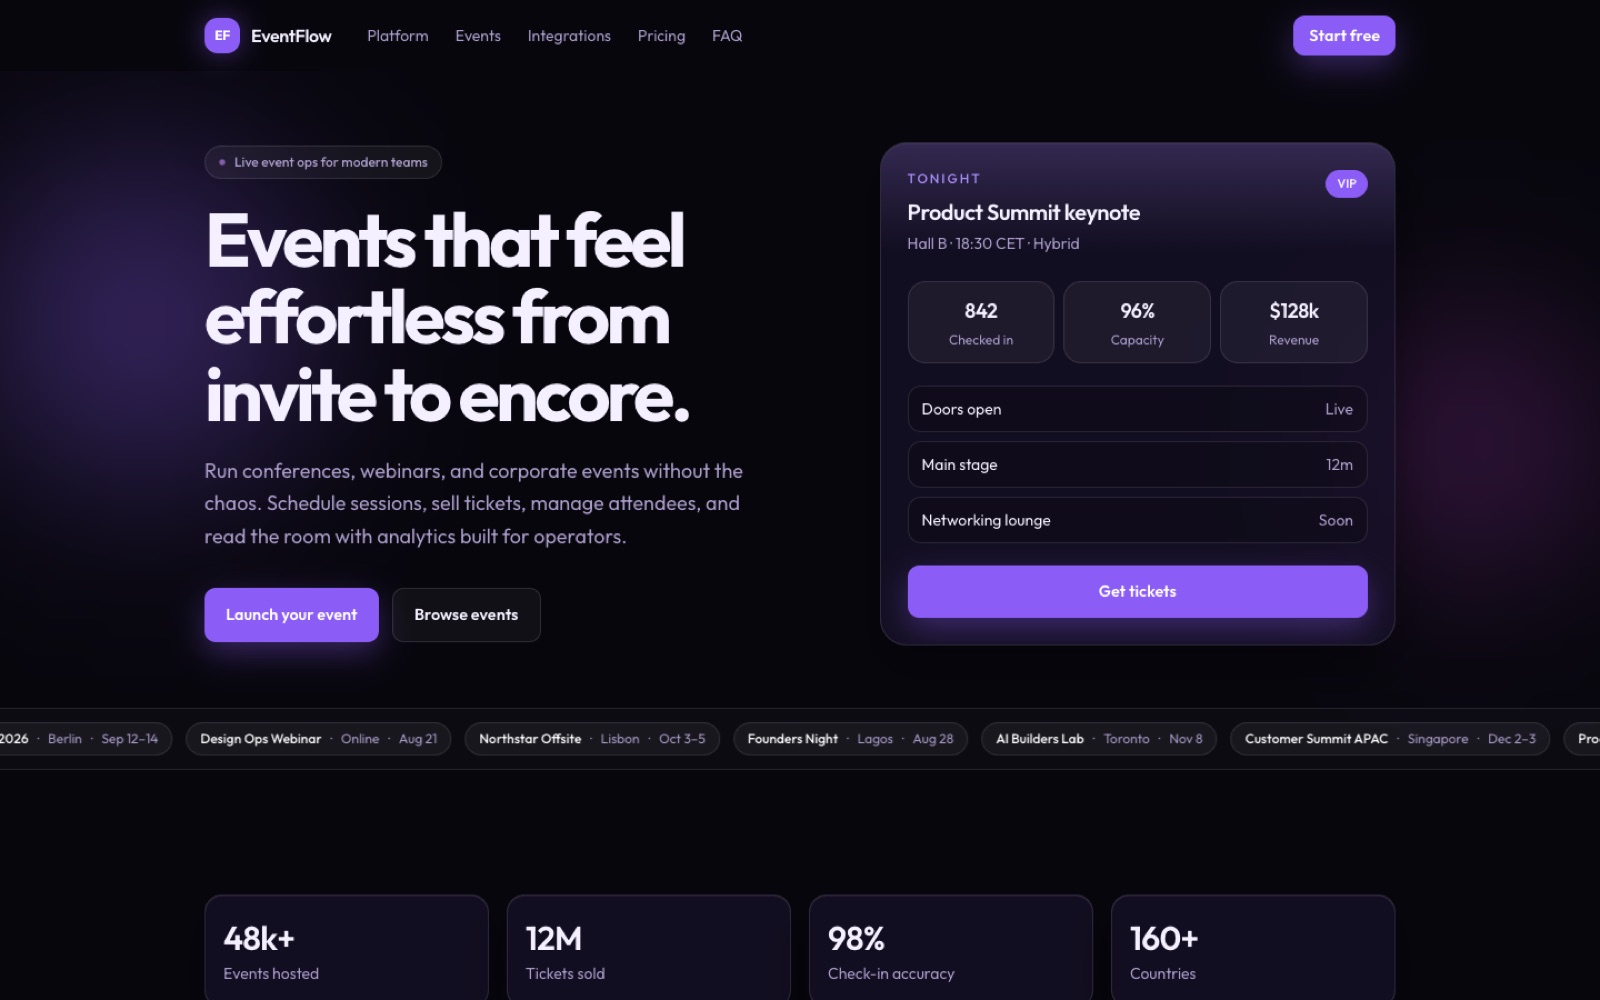
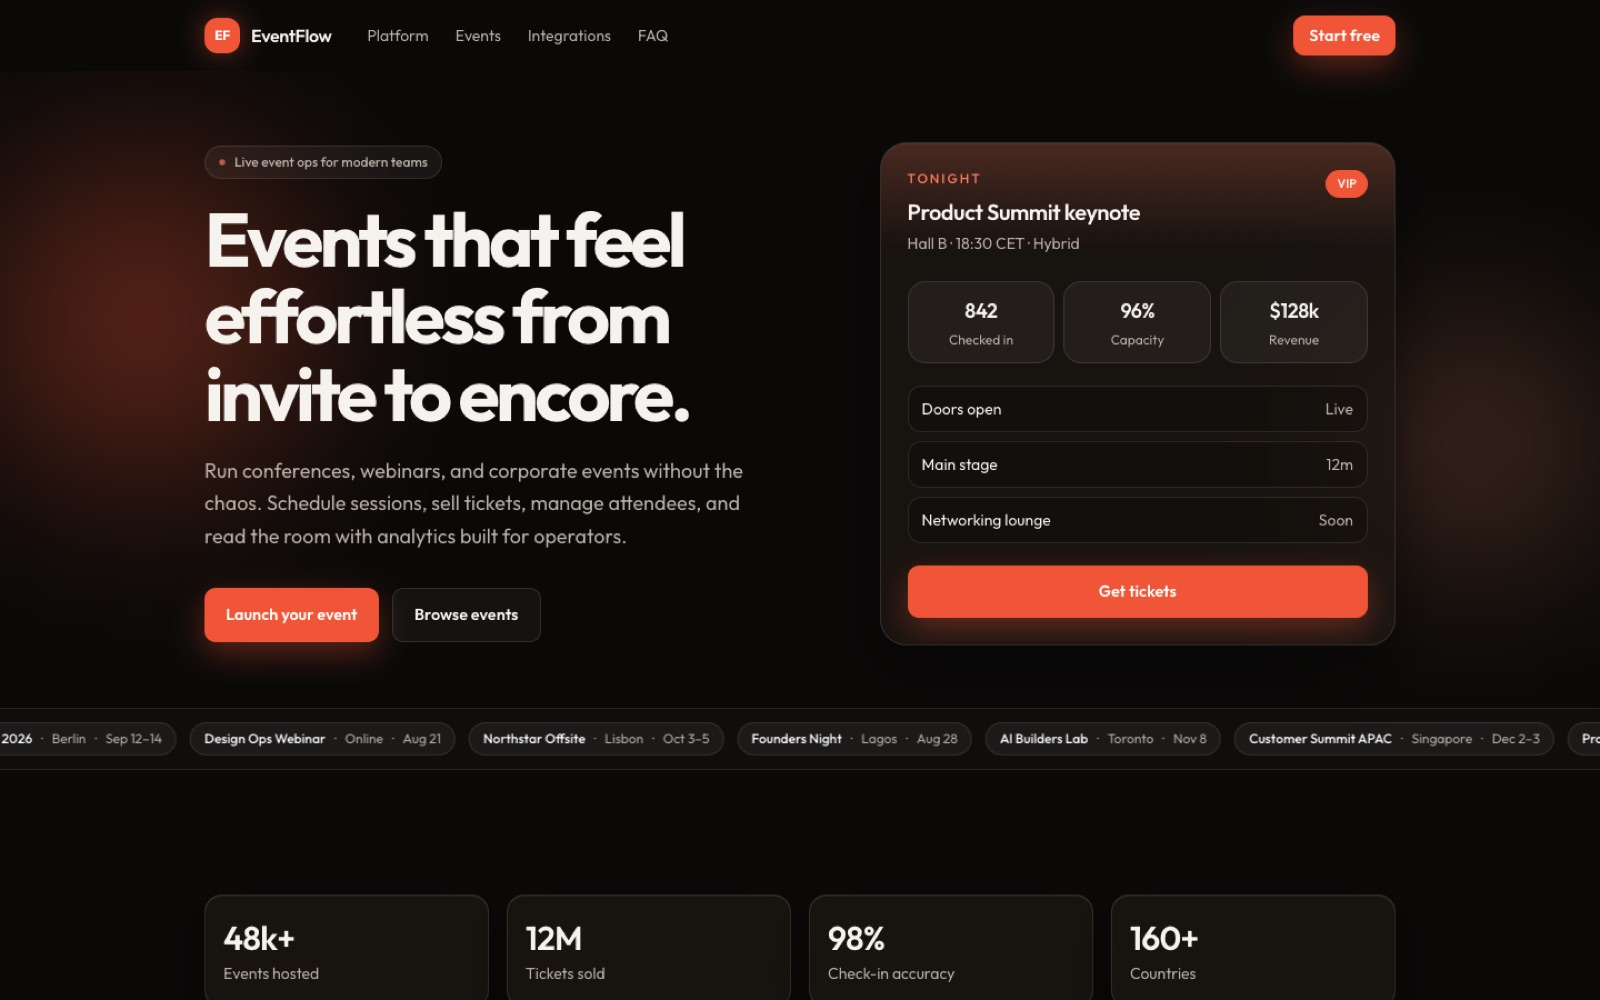
Refresh EventFlow mockup after coral retheme.

diff --git a/content/websites/index.ts b/content/websites/index.ts
@@ -100,7 +100,7 @@ export const websites: Website[] = [
       alt: "EventFlow dark purple event platform homepage with glass cards",
       width: 1600,
       height: 900,
-      cardBackground: "#07060D",
+      cardBackground: "#0A0908",
     },
     url: "https://studio.hammedshotola.com/eventflow",
     status: "live",
